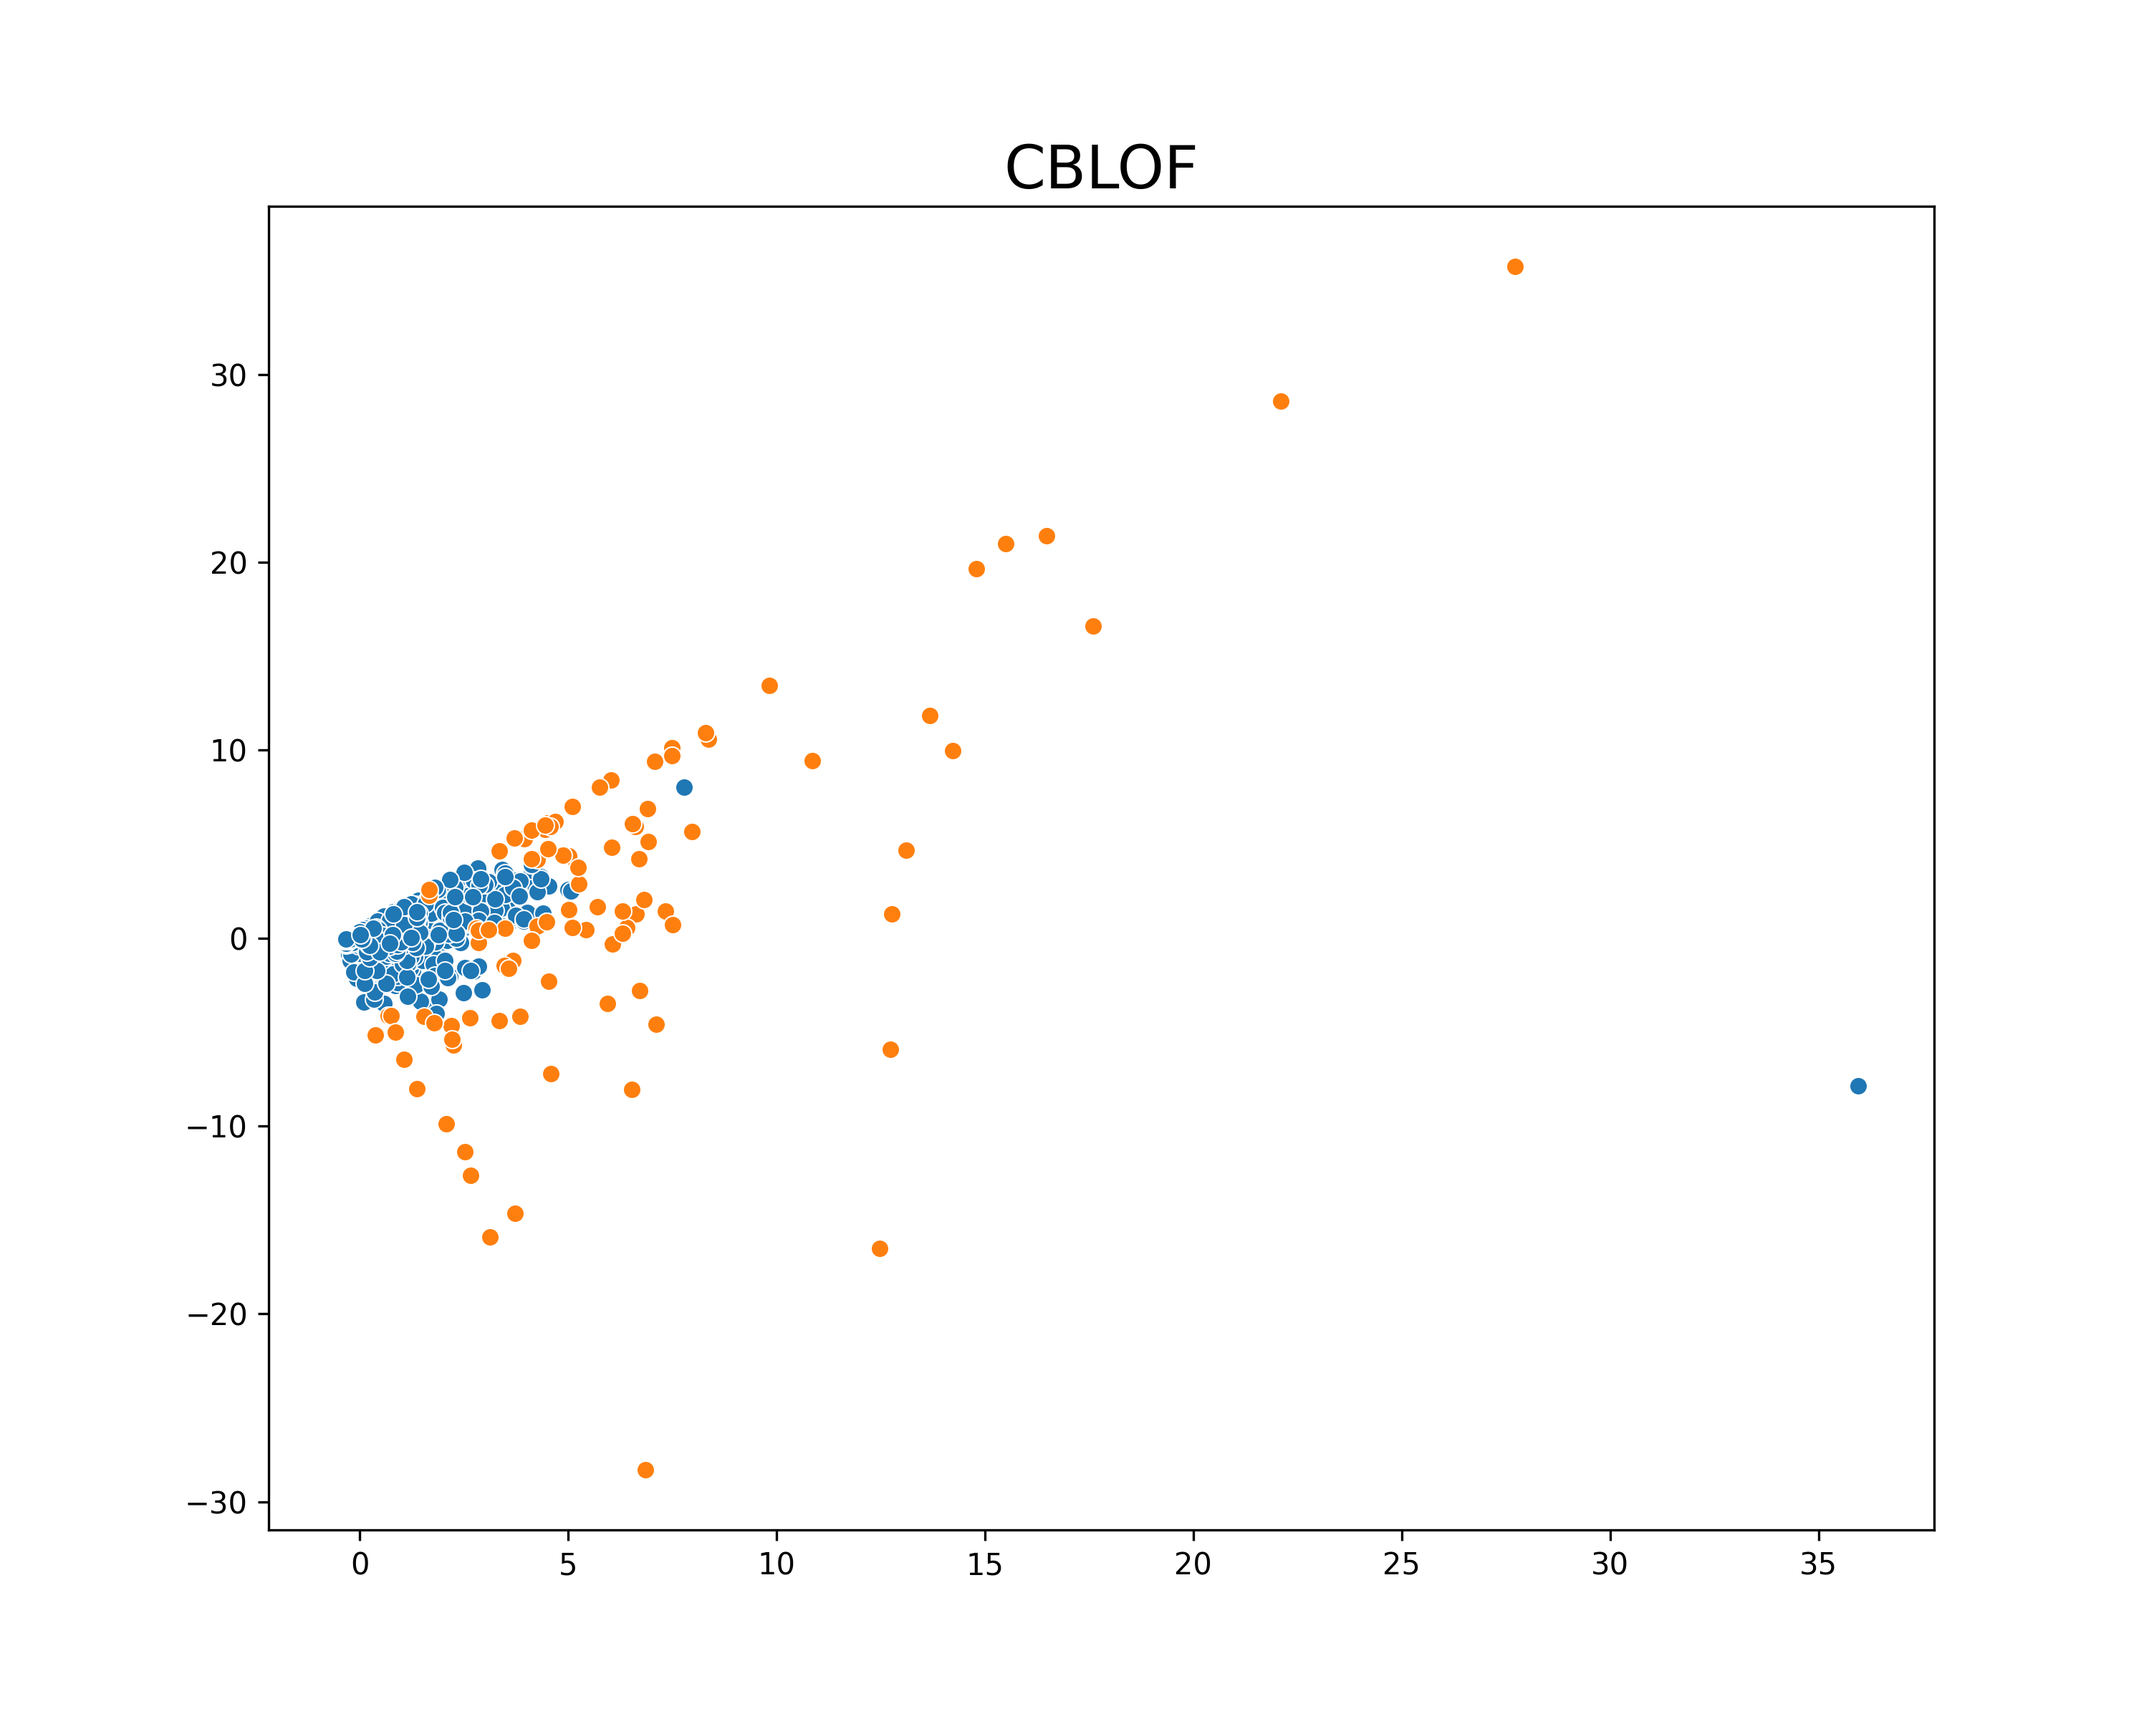
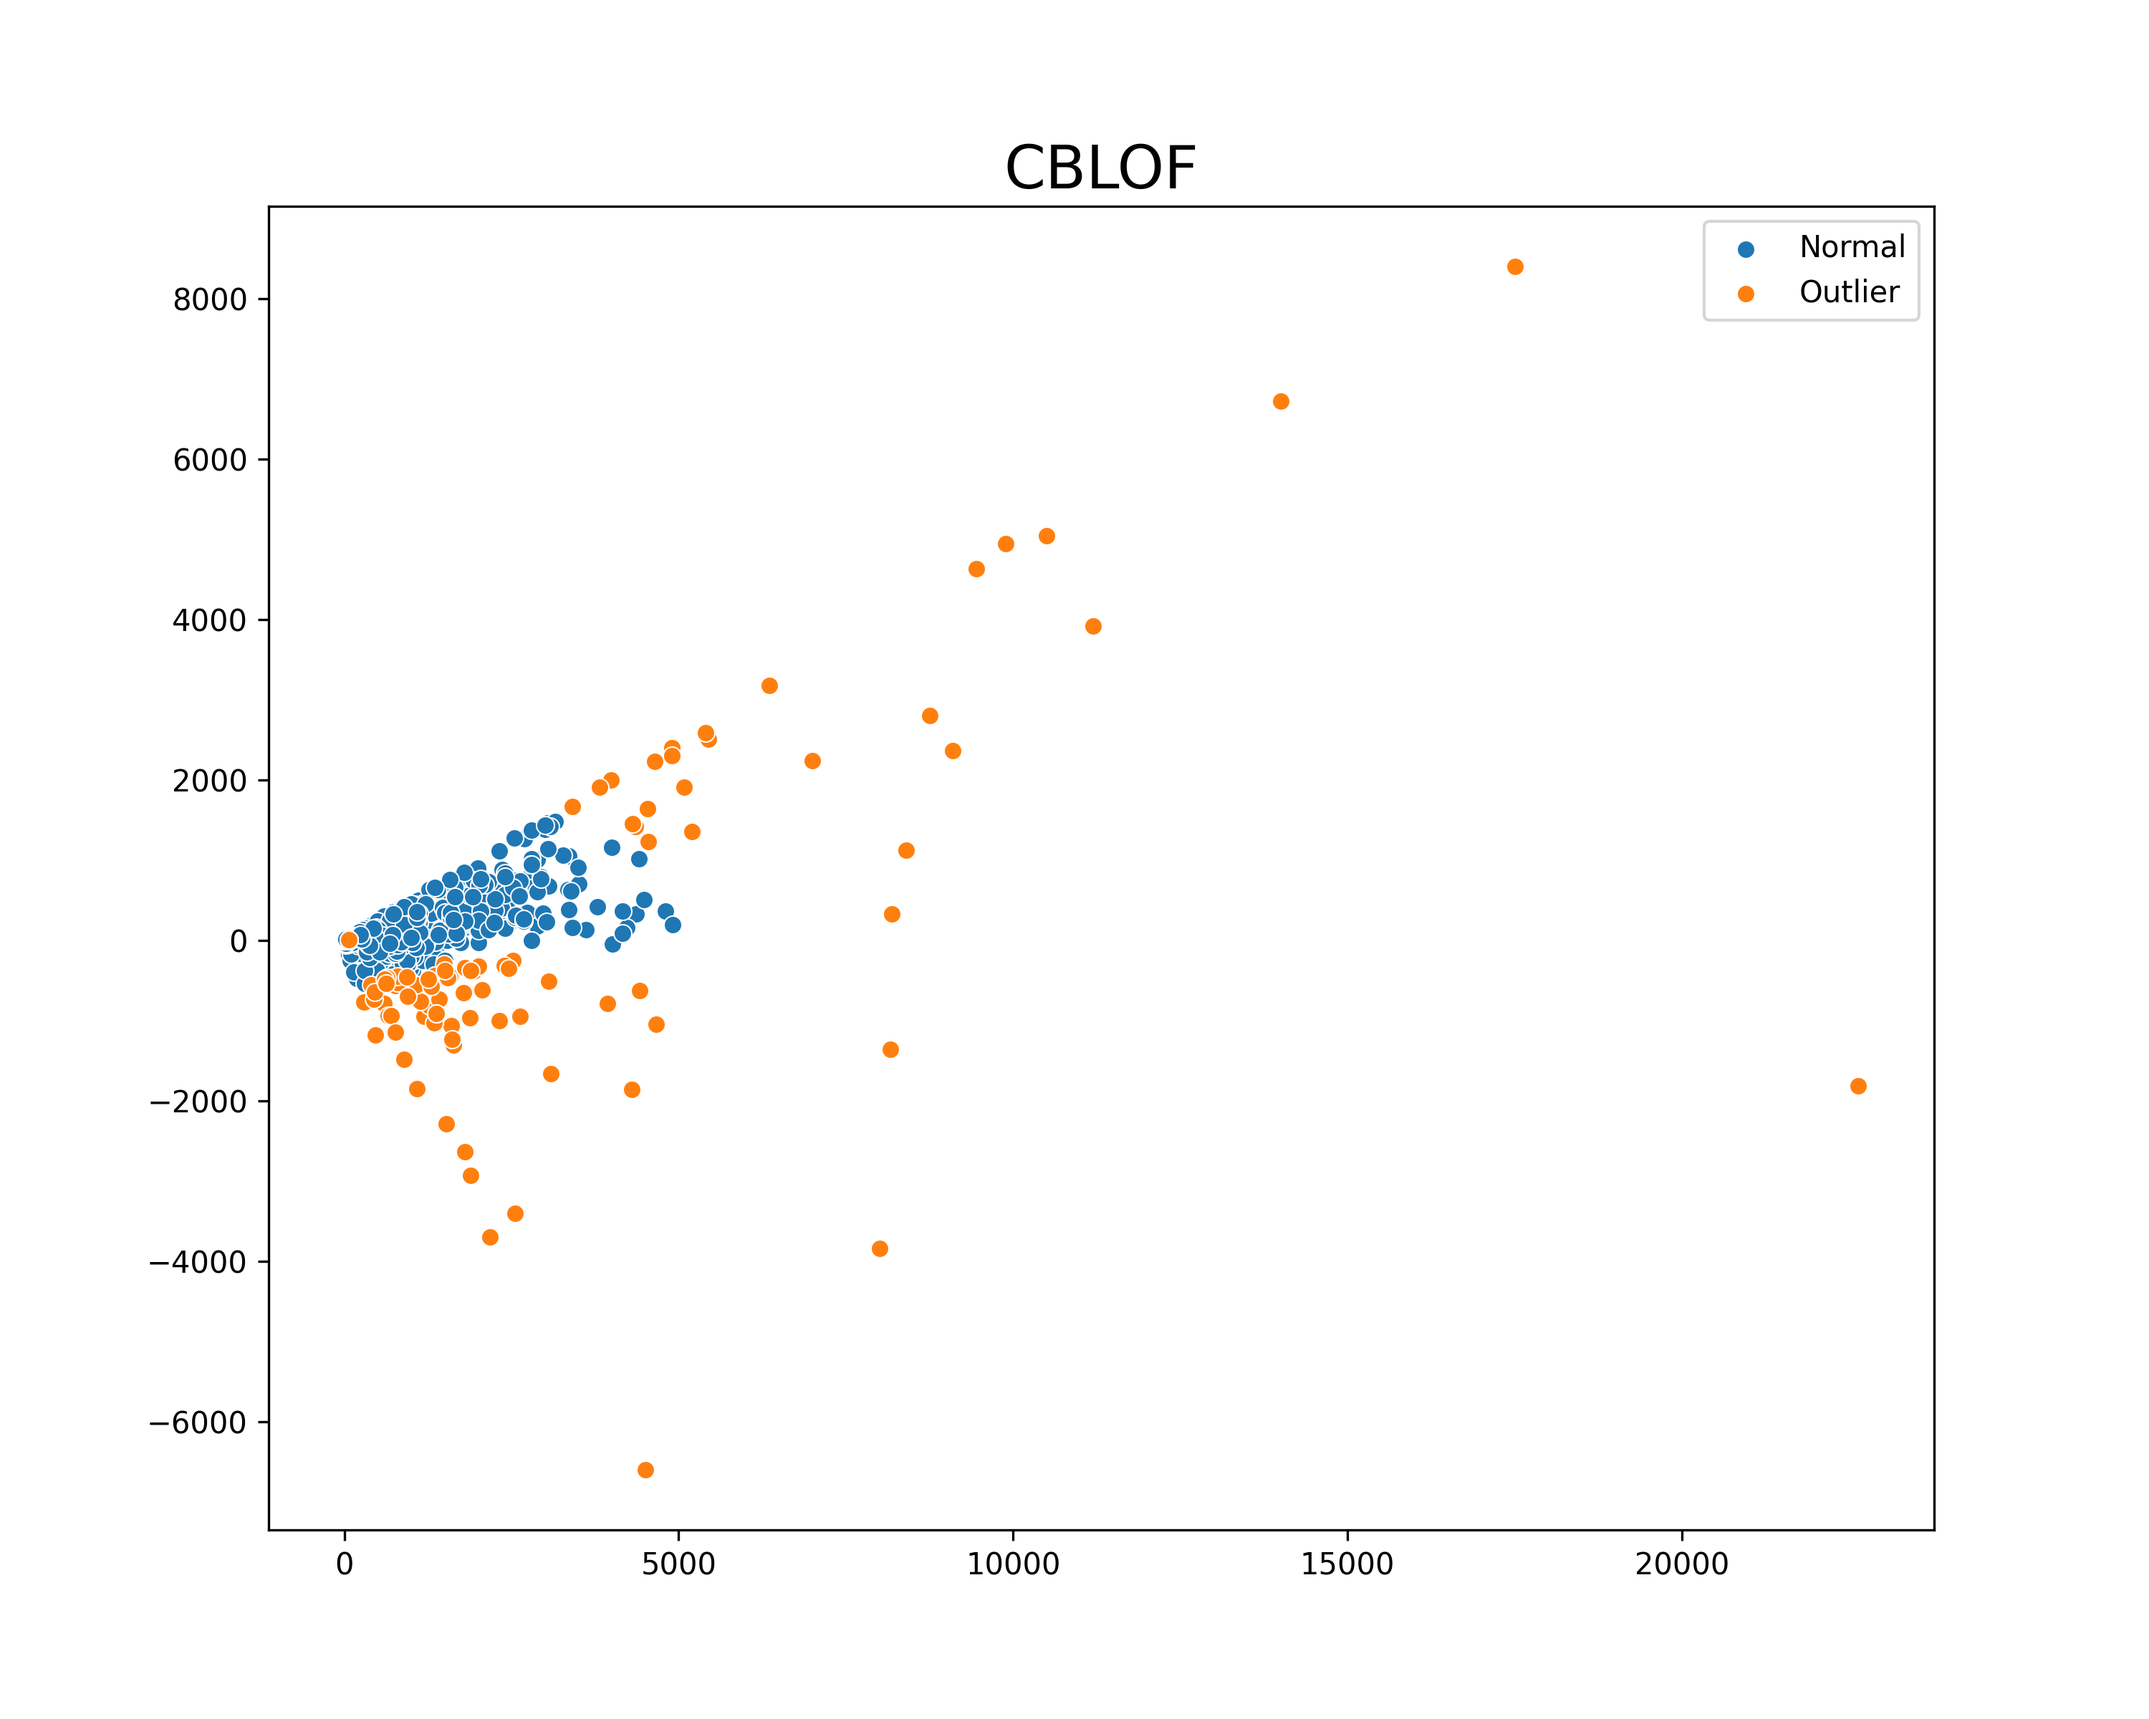
update

diff --git a/CBLOF.py b/CBLOF.py
@@ -3,54 +3,86 @@ import numpy as np
 import matplotlib.pyplot as plt
 import seaborn as sns
 from sklearn.cluster import KMeans
-from sklearn.preprocessing import StandardScaler
+from sklearn.preprocessing import StandardScaler, MinMaxScaler
+# 23
+def perform_cblof(X, alpha=0.9, beta=5, n_clusters=10):
+    # 进行标准化
+    scaler = StandardScaler()
+    # scaler = MinMaxScaler()
+    X_scaled = scaler.fit_transform(X)
+    # 聚类
+    kmeans = KMeans(n_clusters=n_clusters)
+    kmeans.fit(X_scaled)
 
-# 加载数据
+    # 预测每个数据点的簇标签
+    labels = kmeans.labels_
+    # 计算每个簇的中心点
+    centers = kmeans.cluster_centers_
+    print("Cluster centers:", centers)
+    # 将簇按大小排序
+    cluster_sizes = np.bincount(labels)
+    sorted_clusters = np.argsort(cluster_sizes)[::-1]
+    print("Cluster sizes:", cluster_sizes[sorted_clusters])
+    # 找到边界Cb
+    cumulative_size = 0
+    for b in range(len(sorted_clusters) - 1):
+        cumulative_size += cluster_sizes[sorted_clusters[b]]
+        if (cumulative_size / len(X)) >= alpha or (cluster_sizes[sorted_clusters[b]] / cluster_sizes[sorted_clusters[b + 1]]) >= beta:
+            break
+
+    # 划分大簇和小簇
+    large_cluster_indices = sorted_clusters[:b+1]
+    small_cluster_indices = sorted_clusters[b+1:]
+    for i in range(len(large_cluster_indices)):
+        print("Large cluster", i, "size:", cluster_sizes[large_cluster_indices[i]])
+    # 计算CBLOF
+    distances = np.linalg.norm(X_scaled - centers[labels], axis=1)
+    cblof_scores = np.zeros(len(X))
+    
+    for i in large_cluster_indices:
+        cblof_scores[labels == i] = cluster_sizes[i] * distances[labels == i]
+
+    for i in small_cluster_indices:
+        min_distances_to_large_clusters = np.min(np.linalg.norm(centers[large_cluster_indices] - X_scaled[i], axis=1))
+        cblof_scores[labels == i] = cluster_sizes[i] * min_distances_to_large_clusters
+
+
+    # 根据异常值比例找到阈值
+    threshold = np.percentile(cblof_scores, 1)
+
+    # 找到异常值的索引
+    outlier_indices = np.where(cblof_scores < threshold)[0]
+
+    return outlier_indices
+
+def plot_cblof_results(X, outlier_indices):
+    # 绘制图表
+    plt.figure(figsize=(10, 8))
+
+    # 绘制正常值的散点图
+    sns.scatterplot(x=X[:, 0], y=X[:, 1], edgecolor='white', label='Normal')
+
+    # 绘制异常值的散点图
+    sns.scatterplot(x=X[outlier_indices, 0], y=X[outlier_indices, 1], label='Outlier')
+
+    plt.axis('tight')
+    plt.title('CBLOF', fontsize=20)
+    plt.legend()
+
+    # 保存图表
+    plt.savefig('img/CBLOF.png', dpi=300)
+    # plt.show()
+
+
+
 df = pd.read_csv("Superstore.csv")
-
-# 选择特征
 X = df[['Sales', 'Profit']]
 
-# 将特征进行标准化
-scaler = StandardScaler()
-X_scaled = scaler.fit_transform(X)
-
-# 设定异常值比例
-outliers_fraction = 0.01
-
-# 定义KMeans模型
-kmeans = KMeans(n_clusters=8)
-kmeans.fit(X_scaled)
-
-# 预测每个数据点的簇标签
-labels = kmeans.labels_
-
-# 计算每个簇的中心点
-centers = kmeans.cluster_centers_
-
-# 计算每个点到其簇中心的距离
-distances = np.linalg.norm(X_scaled - centers[labels], axis=1)
-
-# 根据异常值比例找到阈值
-threshold = np.percentile(distances, 100 * (1 - outliers_fraction))
-
-# 找到异常值的索引
-outlier_indices = np.where(distances > threshold)[0]
-
-# 输出所有异常值的序号
-print('所有异常值的序号: \n', outlier_indices)
-
-# 绘制图表
-plt.figure(figsize=(10, 8))
-
-# 绘制正常值的散点图
-b = sns.scatterplot(x=X_scaled[:, 0], y=X_scaled[:, 1], edgecolor='white')
-
-# 绘制异常值的散点图
-c = sns.scatterplot(x=X_scaled[outlier_indices, 0], y=X_scaled[outlier_indices, 1])
-
-plt.axis('tight')
-plt.title('CBLOF', fontsize=20)
+outlier_indices = perform_cblof(X)
 
 print('异常值数量: ', len(outlier_indices))
-plt.savefig('img/CBLOF.png',dpi = 300)
+print('所有异常值的序号: \n', outlier_indices)
+
+plot_cblof_results(X.values, outlier_indices)
+
+
